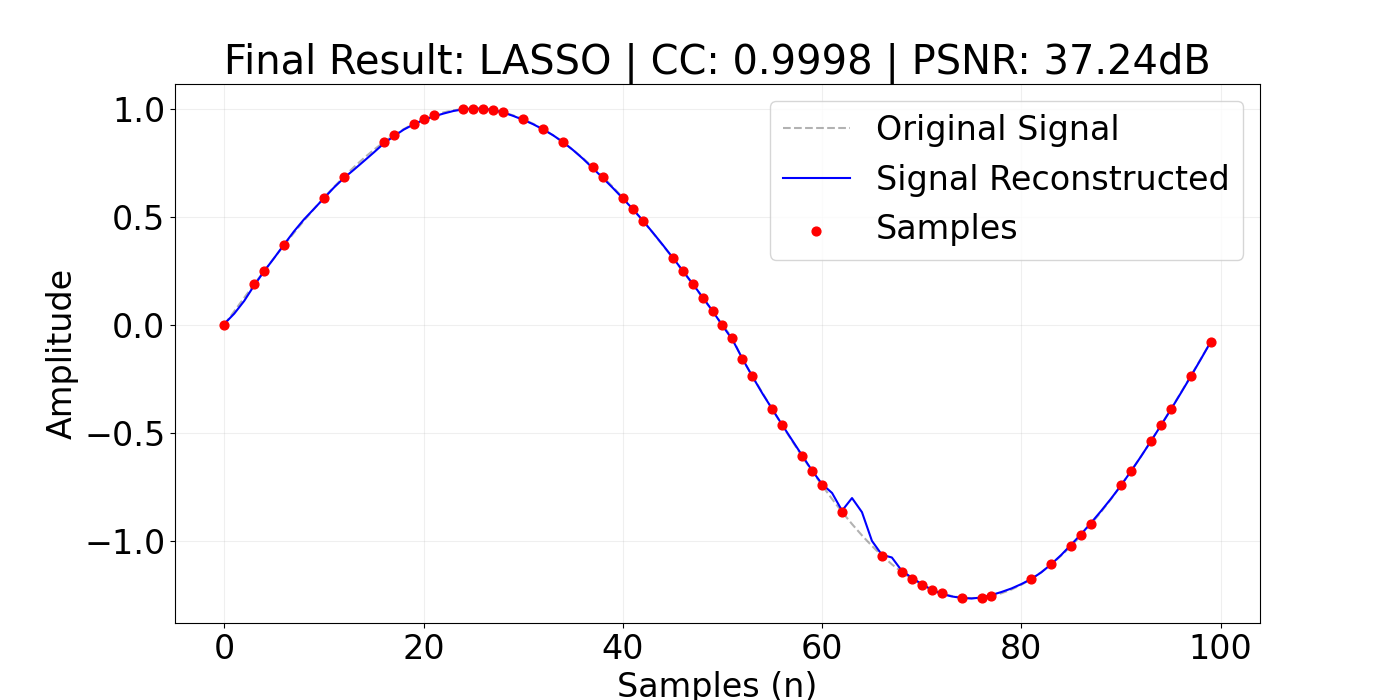
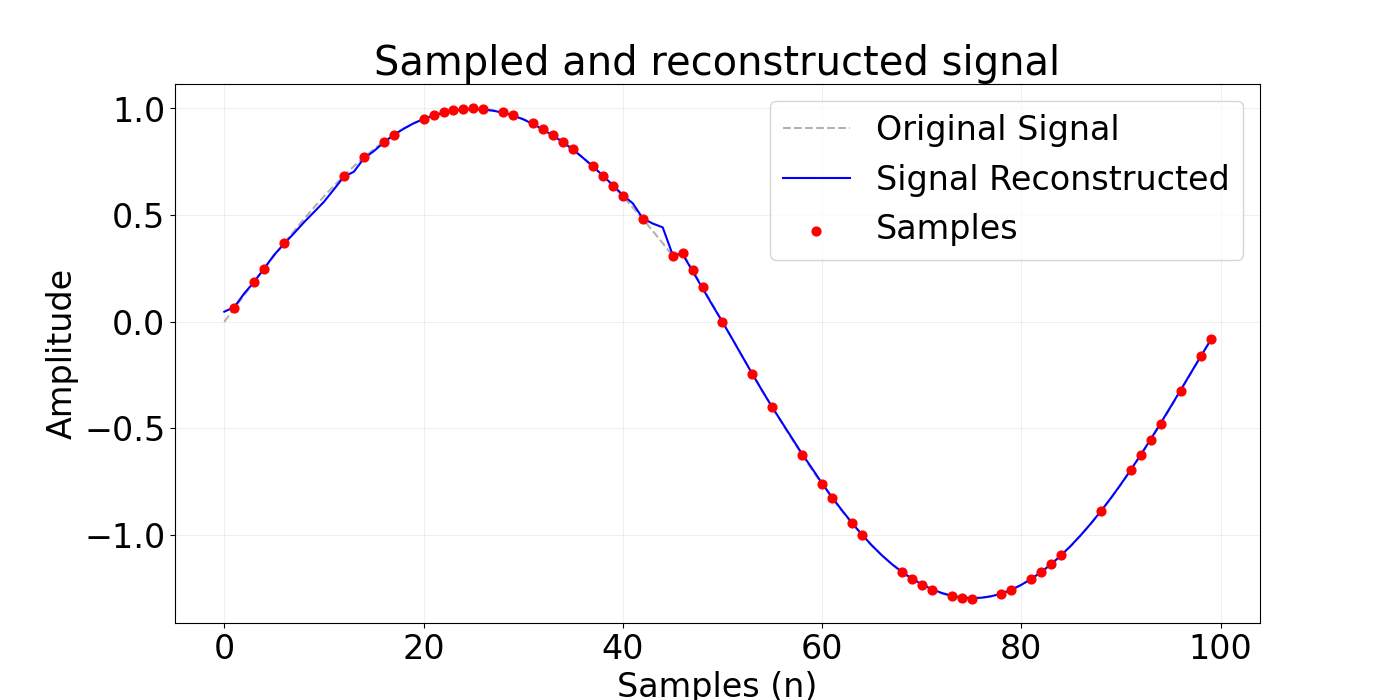
cs tunning complete

diff --git a/compressed_data_classification/new_CS_tunning.py b/compressed_data_classification/new_CS_tunning.py
@@ -160,7 +160,7 @@ def grid_search_robust(X_matrix, N):
                     'best_signal_cc': local_best_cc
                 })
                 
-    return pd.DataFrame(all_results).sort_values(by='avg_cc', ascending=False).reset_index(drop=True)
+    return pd.DataFrame(all_results).sort_values(by='avg_psnr', ascending=False).reset_index(drop=True)
 
 # ----------------------------
 # 5. SALVAMENTO E REFINAMENTO
@@ -195,15 +195,6 @@ def finalize_and_save(X_matrix, config, N):
         "config_parameters": {k: str(v) for k, v in config.items()},
         "performance_on_selected_signal": metrics
     }
-    
-    # with open(SAVE_PREFIX + "_summary.json", "w") as f:
-    #     json.dump(summary, f, indent=2)
-        
-    # np.save(SAVE_PREFIX + "_x_original.npy", sinal_original)
-    # np.save(SAVE_PREFIX + "_meas_idx.npy", m_idx)
-    # np.save(SAVE_PREFIX + "_Phi.npy", Phi)
-    # np.save(SAVE_PREFIX + "_y.npy", y)
-    # np.save(SAVE_PREFIX + "_x_rec_refined.npy", x_refined)
     
     print(f"✅ Resultados salvos com sucesso em {DATA_DIR}")
     return sinal_original, x_refined, m_idx, y, metrics
@@ -244,7 +235,7 @@ if __name__ == "__main__":
     plt.plot(s_ref, label='Signal Reconstructed', color='blue', lw=1.5)
     plt.scatter(m_idx, y_val, color='red', s=40, label='Samples', zorder=5)
     
-    plt.title(f"Final Result: {chosen_config['METHOD']} | CC: {final_m['cc_refined']:.4f} | PSNR: {final_m['psnr_refined']:.2f}dB")
+    plt.title(f"Sampled and reconstructed signal")
     plt.xlabel("Samples (n)")
     plt.ylabel("Amplitude")
     plt.legend()
